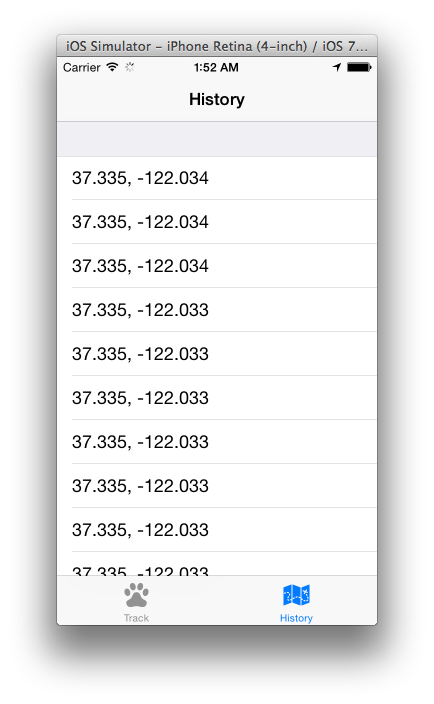
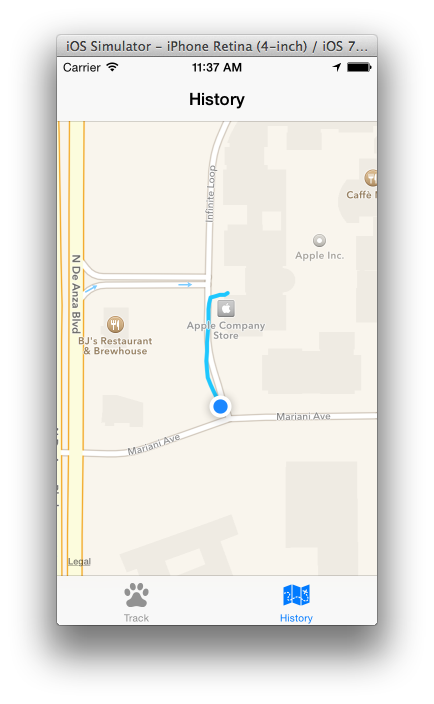
Add maps

diff --git a/Resources/src/UI.HistoryPage.js b/Resources/src/UI.HistoryPage.js
@@ -4,12 +4,14 @@
  */
 
 var Auth = require('src/AuthService');
+var MapModule = require('ti.map');
 
 module.exports.createHistoryPage = function () {
 
   var view;
-  var tableView;
   var intervalId;
+  var map;
+  var route;
 
   createUI();
   attachEvents();
@@ -19,23 +21,64 @@ module.exports.createHistoryPage = function () {
 
       var authData = Auth.get();
 
-      var xhr = Ti.Network.createHTTPClient();1
+      var xhr = Ti.Network.createHTTPClient();
+      1
 
       xhr.onload = function (e) {
 
         var data = JSON.parse(e.source.responseText).Data__c;
         data = JSON.parse(data);
 
+        // detect map region
         if (data) {
 
+          var minLat = null, minLon = null, maxLat = null, maxLon = null;
+
           for (var i = 0; i < data.length; i++) {
-            data[i] = {
-              title: data[i][0] + ', ' + data[i][1]
-            }
+            var lat = data[i][0];
+            var lon = data[i][1];
+
+            minLat = lat < minLat || minLat === null ? lat : minLat;
+            minLon = lon < minLon || minLon === null ? lon : minLon;
+            maxLat = lat > maxLat || maxLat === null ? lat : maxLat;
+            maxLon = lon > maxLon || maxLon === null ? lon : maxLon;
           }
 
-          // display data
-          tableView.setData(data);
+          var mapLat = (minLat + maxLat) / 2;
+          var mapLatDelta = (maxLat - minLat) / 2;
+
+          var mapLon = (minLon + maxLon) / 2;
+          var mapLonDelta = (maxLon - minLon) / 2;
+
+          map.setRegion({
+            latitude: mapLat,
+            longitude: mapLon,
+            latitudeDelta: mapLatDelta,
+            longitudeDelta: mapLonDelta
+          });
+
+          // create route
+
+          var points = [];
+
+          for (var i = 0; i < data.length; i++) {
+            points.push({
+              latitude: data[i][0],
+              longitude: data[i][1]
+            });
+          }
+
+          if (route) {
+            map.removeRoute(route)
+          };
+
+          route = MapModule.createRoute({
+            width : 4,
+            color : '#1ec7fe',
+            points: points
+          });
+
+          map.addRoute(route);
         }
       }
 
@@ -61,6 +104,8 @@ module.exports.createHistoryPage = function () {
     })
   }
 
+  return view;
+
   function createUI() {
 
     var row1;
@@ -72,13 +117,19 @@ module.exports.createHistoryPage = function () {
       bottom         : -49
     });
 
-    view.add(tableView = Ti.UI.createTableView({
-      top   : 64,
-      bottom: 49,
-      style : Titanium.UI.iPhone.TableViewStyle.GROUPED
-    }));
+
+    // create map
+
+    map = MapModule.createView({
+      mapType     : MapModule.NORMAL_TYPE,
+      top         : 64,
+      bottom      : 49,
+      userLocation: true,
+      animate     : true
+    });
+
+    view.add(map);
 
   }
-
-  return view;
-};
+}
+;

diff --git a/Resources/src/UI.TrackPage.js b/Resources/src/UI.TrackPage.js
@@ -44,8 +44,8 @@ module.exports.createTrackPage = function () {
   function onLocation(e) {
 
     // get coordinates
-    var lat = Math.round(e.coords.latitude * 1000) / 1000;
-    var lon = Math.round(e.coords.longitude * 1000) / 1000;
+    var lat = e.coords.latitude;
+    var lon = e.coords.longitude;
 
     positionList.unshift([lat, lon]);
 

diff --git a/README.md b/README.md
@@ -8,6 +8,7 @@ In this tutorial we're going to build a Titanium app which lets you track and vi
 
 Source code of the sample app can be found here: [https://github.com/myurasov/Salesforce-REST-API-Titanium-Sample](https://github.com/myurasov/Salesforce-REST-API-Titanium-Sample). You can import it to Titanium Studio via _File > Import > Existing mobile project_.
 
+You will also need Ti.Map module installed. Download it from [https://marketplace.appcelerator.com/apps/5005](https://marketplace.appcelerator.com/apps/5005) and install using Titanium Studio menu _Help > Install Mobile Module_.
 >
 * Creating Salesforce Connected App
 * Adding custom SObject
@@ -174,8 +175,8 @@ When we get a location update we want to save to the server. This is achieved by
 function onLocation(e) {
 
   // get coordinates
-  var lat = Math.round(e.coords.latitude * 1000) / 1000;
-  var lon = Math.round(e.coords.longitude * 1000) / 1000;
+  var lat = e.coords.latitude;
+  var lon = e.coords.longitude;
 
   positionList.unshift([lat, lon]);
 
@@ -194,7 +195,6 @@ function onLocation(e) {
   xhr.setRequestHeader('Authorization', authData.token_type + ' ' + authData.access_token);
   xhr.setRequestHeader('Content-type', 'application/json');
   xhr.send(JSON.stringify({'Data__c': JSON.stringify(positionList)}));
-  
 }
 ```
 
@@ -208,24 +208,10 @@ function update() {
 
     var authData = Auth.get();
 
-    var xhr = Ti.Network.createHTTPClient();1
+    var xhr = Ti.Network.createHTTPClient();
 
     xhr.onload = function (e) {
-
-      var data = JSON.parse(e.source.responseText).Data__c;
-      data = JSON.parse(data);
-
-      if (data) {
-
-        for (var i = 0; i < data.length; i++) {
-          data[i] = {
-            title: data[i][0] + ', ' + data[i][1]
-          }
-        }
-
-        // display data
-        tableView.setData(data);
-      }
+      ... display route on a map ...    
     }
 
     // get position list
@@ -237,7 +223,7 @@ function update() {
 }
 ```
 
-When the data is loaded we map it to set of rows and display:
+When the data is loaded we display the route on a map:
 
 ![image](app-history.png)
 
@@ -247,7 +233,7 @@ Using Salesforce REST APIs along with OAuth authentication is flexible and can b
 
 ## About the Author
 
-I am a full-stack _mobile/web/connected devices_ developer specializing in bringing projects from the idea to full implementation. Feel free to contact me at <me@yurasov.me> for any comments and questions or visit my:
+Mikhail Yurasov is a full-stack _mobile/web/connected devices_ developer specializing in bringing projects from the idea to full implementation. Feel free to contact him at <me@yurasov.me> for any comments and questions or visit his:
 
 - [LinkedIn](https://www.linkedin.com/profile/view?id=173007295)
 - [GitHub](https://github.com/myurasov)
